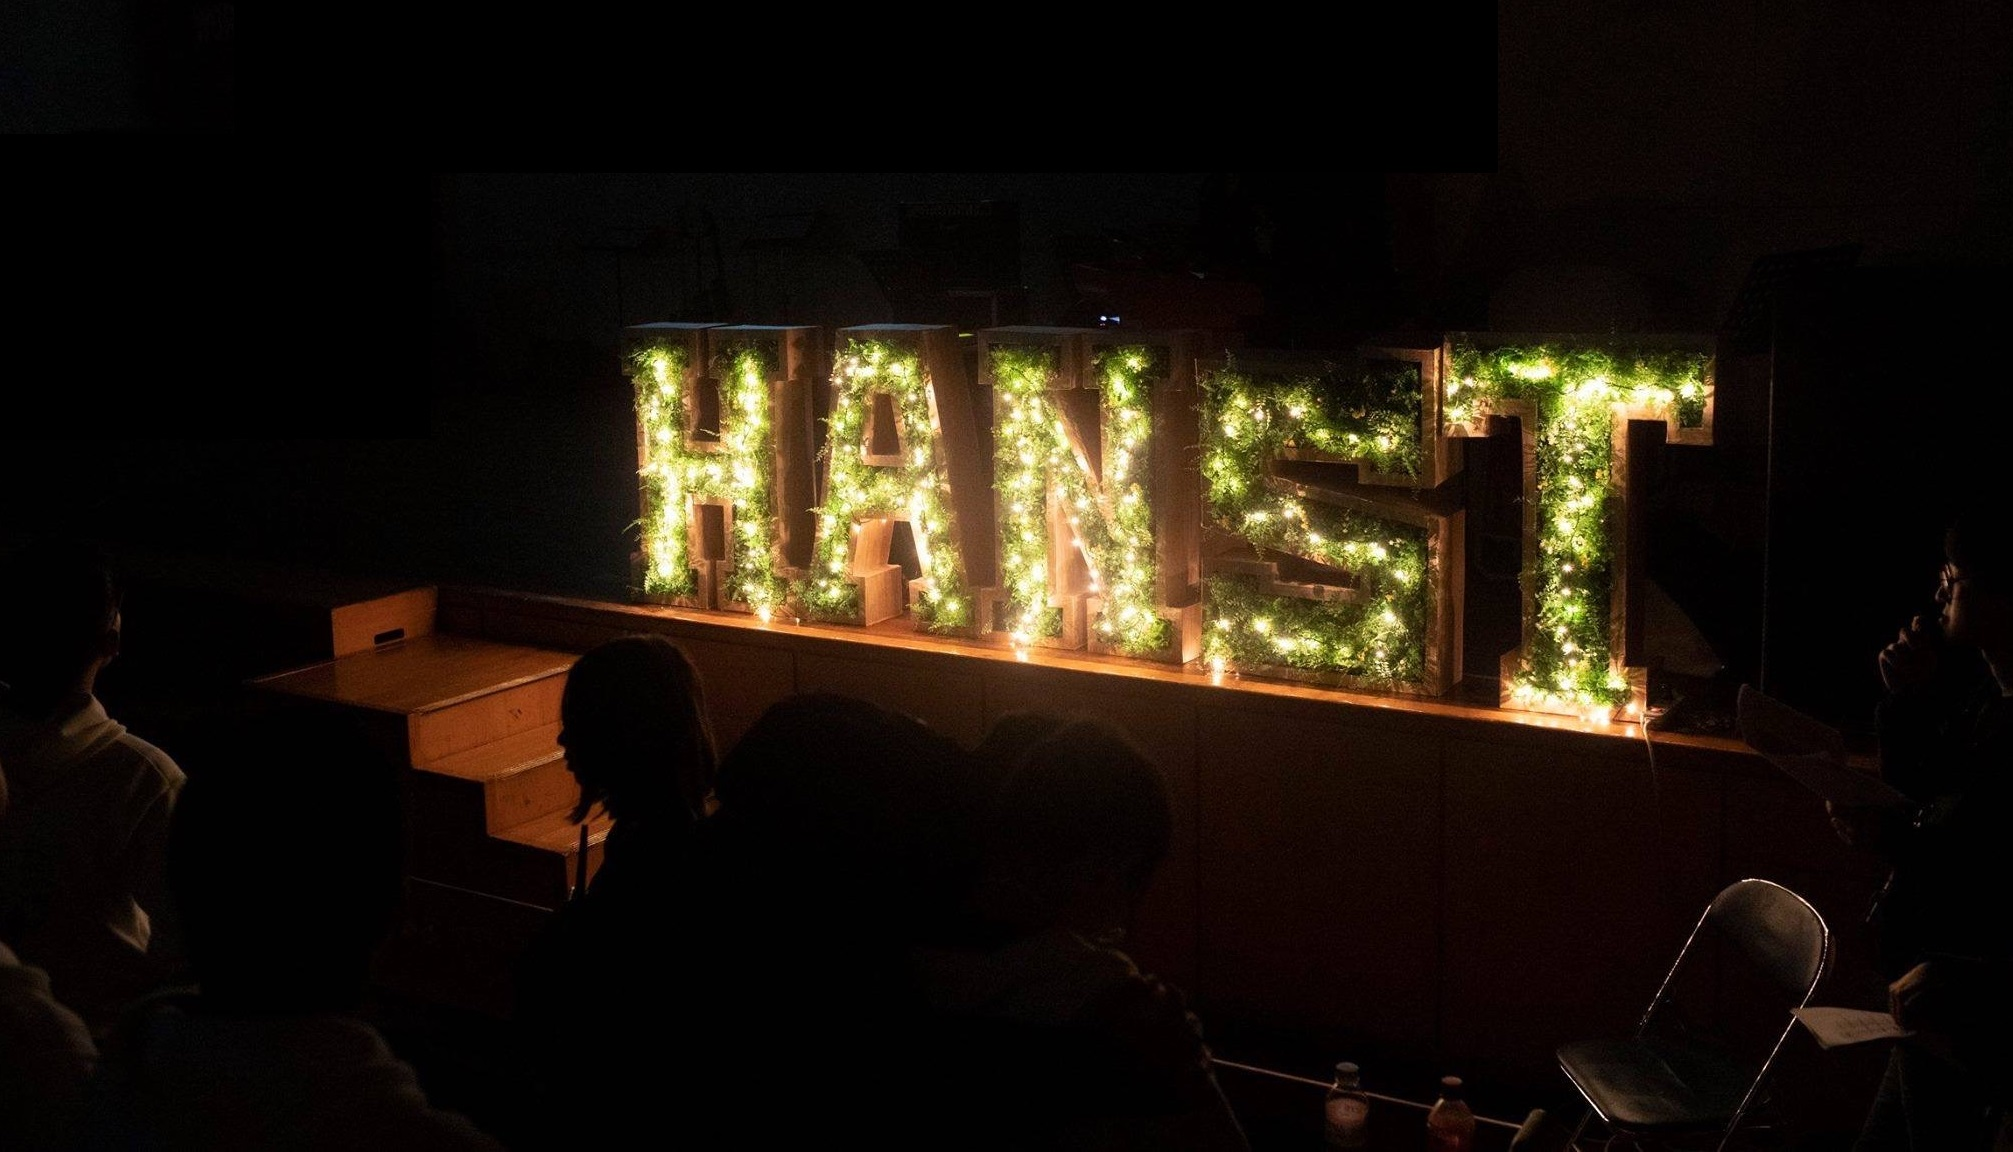
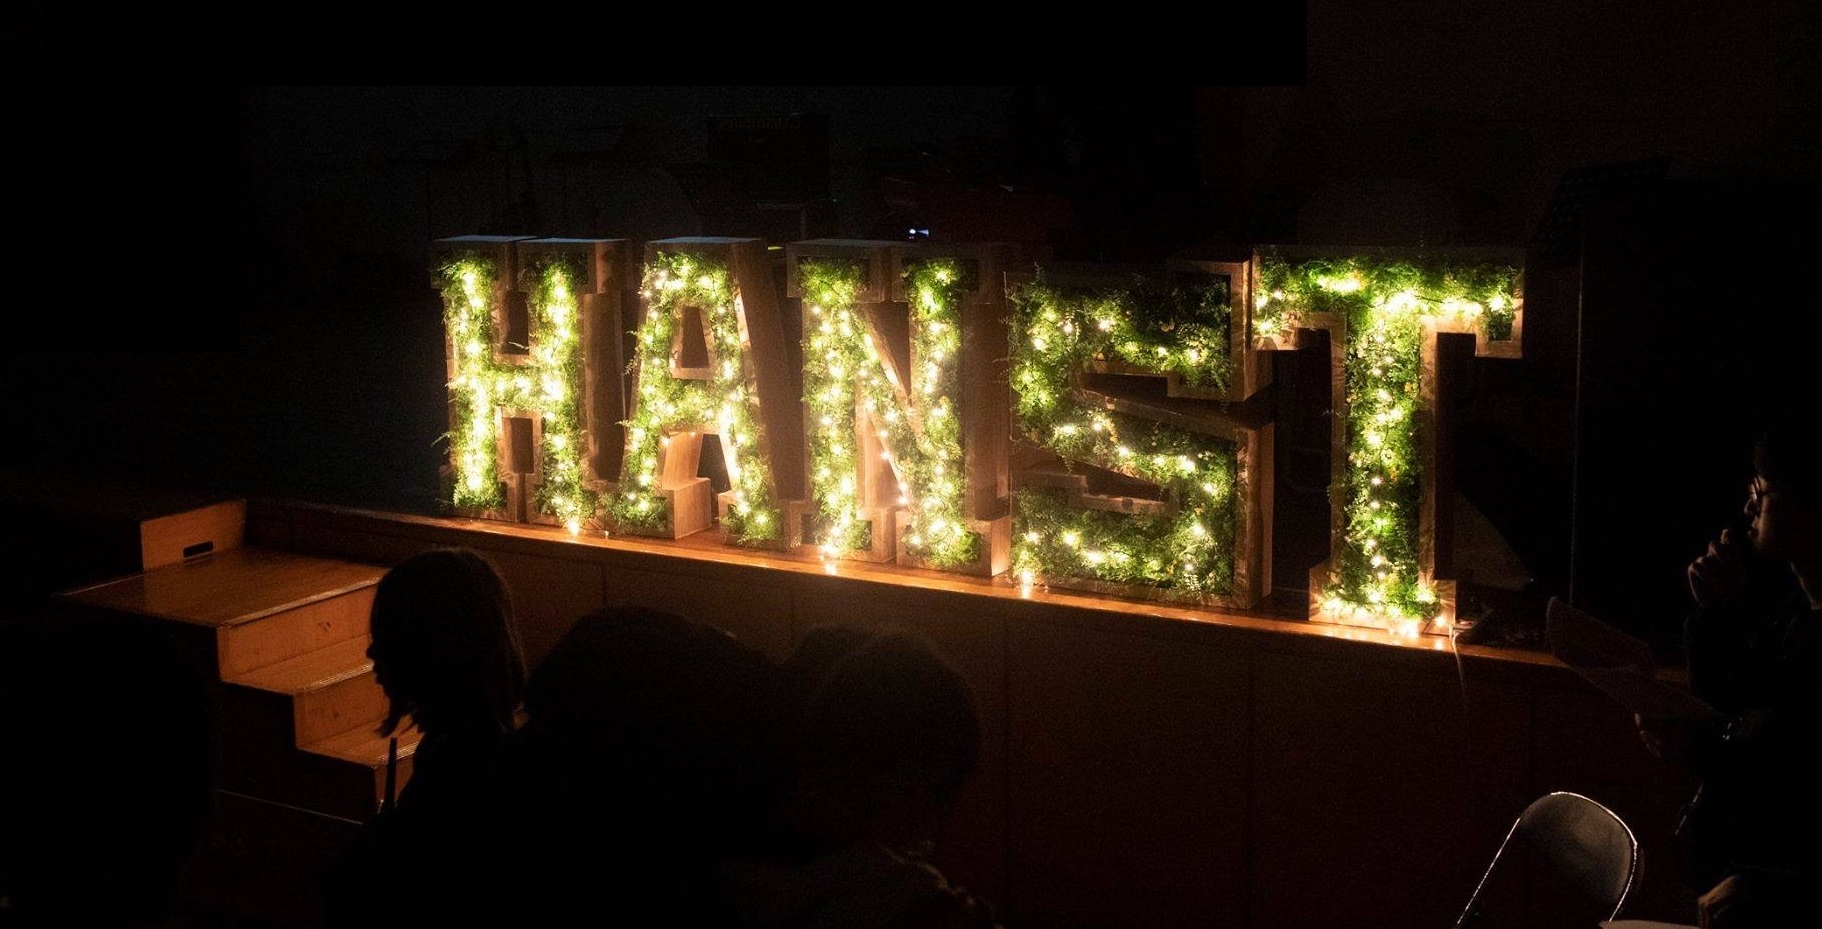
Update week15 image

diff --git a/src/pages/Bible.js b/src/pages/Bible.js
@@ -8,7 +8,7 @@ function Bible() {
             </div>
             <div className="block-content">
                 <br />
-                <img src="https://github.com/KoEonYack/aiforall-dashboard/blob/master/src/img/week15.jpg?raw=true" width="80%"  className="bible-img" />
+                <img src="https://github.com/KoEonYack/aiforall-dashboard/blob/master/src/img/week15_1.jpg?raw=true" width="80%"  className="bible-img" />
                 <br/>
                 <center> 
                     누구에게나 시작이 주어지며, 누구든지 끝을 피할 수 없습니다.
